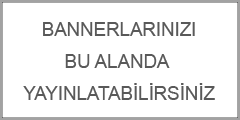
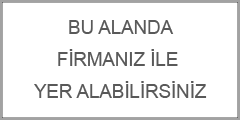
php sayfaları düzenlendi.

Changed region(s): [[0.0875, 0.675, 0.9042, 0.85], [0.175, 0.15, 0.8167, 0.3], [0.2333, 0.4, 0.7583, 0.575]]

diff --git a/cccotedivoireturkey/html/css/style.css b/cccotedivoireturkey/html/css/style.css
@@ -146,7 +146,7 @@ body { background: url("../img/bg_image.png") repeat-x top; font-family: ConduIT
 .middle .content .leftContent  span { font-size: 14px; }
 
 /* Right Menu */
-.middle .content .rightContent .rightMenu { width: 240px; background: #f2f2f2; float: left;}
+.middle .content .rightContent .rightMenu { width: 240px; background: #f2f2f2; float: left; font-family: Omnes, "Arial sans-serif";}
 .middle .content .rightContent .rightMenu .rightMenuHeader { padding: 10px; display: block; font-family:  Century, "Arial sans-serif"; color: #589ad2; font-size: 13px;  }
 .middle .content .rightContent .rightMenu img {  padding: 10px;   float: left;}
 .middle .content .rightContent .rightMenu .rightMenuItem { color: #b8b8b8; font-size: 14px; display: block;  padding: 9px; width: 185px;}
@@ -245,3 +245,6 @@ body { background: url("../img/bg_image.png") repeat-x top; font-family: ConduIT
 .active { color: #ff0 !important; }
 .sliderInHead { position: absolute; z-index: 998; width:100%; bottom: 0; color: white; height: 43px; background: #000000;  opacity: 0.7 }
 .siderInHeadText { position: absolute; z-index: 999; font-size:22px !important; bottom: 0; color: white;line-height: 42px; padding: 0 10px; }
+.vectorLayers { width: 220px; }
+.myVectors { float: left; margin: 5px 0; cursor: pointer; }
+.vectorLayers span { font-family:  Century, "Arial sans-serif";  float: left; margin: 5px 0;cursor: pointer;}

diff --git a/cccotedivoireturkey/html/css/reset.css b/cccotedivoireturkey/html/css/reset.css
@@ -42,4 +42,4 @@ table {
     border-spacing: 0;
 }
 
-a { cursor: pointer; text-decoration: none;}
+a { cursor: pointer; text-decoration: none; color: inherit;}

diff --git a/cccotedivoireturkey/html/press.php b/cccotedivoireturkey/html/press.php
@@ -1,0 +1,74 @@
+<?php include 'header.php'; ?>
+            <div class="leftContent">
+                <div class="vectorLayers">
+                    <img class="myVectors" src="img/tr_Flag.jpg" alt=""/>
+                    <span>Türk Bayrağı vectorel dosyasını indirmek için tıklayınız</span>
+                    <img class="myVectors" src="img/cd_Flag.jpg" alt=""/>
+                    <span>Fildişi Sahili Bayrağı vectorel dosyasını indirmek için tıklayınız</span>
+                    <img class="myVectors" src="img/foundation_Flag.jpg" alt=""/>
+                    <span>Odamızın logosunun vectorel dosyasını indirmek için tıklayınız</span>
+                </div>
+            </div>
+
+            <div class="rightContent">
+
+            </div>
+
+        </div>
+        <div class="advertising">
+            <img src="img/airdivoure.jpg" alt="">
+        </div>
+
+    </div>
+    <div class="footer">
+        <div class="pageUp">
+            <img src="img/up.png" alt="">
+            <span class="up">SAYFA BAŞI</span>
+        </div>
+
+        <div class="foot">
+            <div class="outColumn">
+                <span class="footerHeadLine">Biz</span>
+                <span>Etkinliklerimiz</span>
+                <span>Haberler</span>
+                <span>Yayınlar</span>
+            </div>
+            <div class="servicesColumn">
+                <span class="footerHeadLine">Hizmetlerimiz</span>
+                <span>Yayınlar</span>
+                <span>Hizmetlerimiz</span>
+                <span>Üyelik</span>
+            </div>
+            <div class="countryColumn">
+                <span class="footerHeadLine">Ülke Bilgileri</span>
+                <span>Galeri</span>
+                <span>Fildişi Sahilleri</span>
+                <span>République de Côte d'Ivoire</span>
+            </div>
+            <div class="connectionColumn">
+                <span class="footerHeadLine">İletişim</span>
+                <span>info@cccotedivoireturkey.com</span>
+                <span>+90 212 511 44 88</span>
+                <div>
+                    <img src="img/mapIco.png" alt="" class="mapIco">
+                    <p class="mapText">455 Larkspur Dr.
+                        San Jose, CA 92926</p>
+                </div>
+            </div>
+            <div class="socialColumn">
+                <div class="socClmContainer">
+                    <img src="img/mailIco.png" alt="">
+                    <img src="img/rssIco.png" alt="">
+                    <img src="img/facebookIco.png" alt="">
+                    <img src="img/twitterIco.png" alt="">
+                </div>
+            </div>
+        </div>
+
+    </div>
+
+
+</div>
+
+</body>
+</html>

diff --git a/cccotedivoireturkey/html/rightMenu.php b/cccotedivoireturkey/html/rightMenu.php
@@ -1,5 +1,4 @@
 <div class="rightMenu">
-    <span class="rightMenuHeader">Başlıklar</span>
     <img src="img/arrow.png" alt=""/><span class="rightMenuItem"><a href="#" ></a>Hizmetlerimiz</span>
     <img src="img/arrow.png" alt=""/><span class="rightMenuItem">Fırsatlar</span>
     <img src="img/arrow.png" alt=""/><span class="rightMenuItem">İhtiyaçlar</span>
@@ -7,8 +6,9 @@
     <img src="img/arrow.png" alt=""/><span class="rightMenuItem">Üyelere Özel hizm.</span>
     <img src="img/arrow.png" alt=""/><span class="rightMenuItem">Ticari Hizmetler</span>
     <img src="img/arrow.png" alt=""/><span class="rightMenuItem">Yatırım Alanları</span>
-    <img src="img/arrow.png" alt=""/><span class="rightMenuItem">Stratejik hedeflerimiz</span>
+    <img src="img/arrow.png" alt=""/><span class="rightMenuItem">Etkinlikler</span>
     <img src="img/arrow.png" alt=""/><span class="rightMenuItem">Değerlerimiz</span>
     <img src="img/arrow.png" alt=""/><span class="rightMenuItem">E-bülten</span>
-    <img src="img/arrow.png" alt=""/><span class="rightMenuItem">Yayınlarımız</span>
+    <img src="img/arrow.png" alt=""/><span class="rightMenuItem">Banner Reklam</span>
+    <img src="img/arrow.png" alt=""/><span class="rightMenuItem red"><a href="press.php" >Basın Sayfası</a></span>
 </div>

diff --git a/cccotedivoireturkey/html/index.php b/cccotedivoireturkey/html/index.php
@@ -92,6 +92,9 @@
     <div class="advertising">
         <img src="img/airdivoure.jpg" alt=""/>
     </div>
+    <div class="advertising">
+    <img src="img/airdivoure.jpg" alt=""/>
+</div>
 
 </div>
 <div class="footer">
@@ -109,15 +112,15 @@
         </div>
         <div class="servicesColumn">
             <span class="footerHeadLine">Hizmetlerimiz</span>
-            <span>Yayınlar</span>
-            <span>Hizmetlerimiz</span>
-            <span>Üyelik</span>
+            <span>Ofis Hizmetlerimiz</span>
+            <span>Ticari Hizmetlerimiz</span>
+            <span>Üyelere Özel Hizmetlerimiz</span>
         </div>
         <div class="countryColumn">
             <span class="footerHeadLine">Ülke Bilgileri</span>
-            <span>Galeri</span>
+            <span>Türkiye</span>
             <span>Fildişi Sahilleri</span>
-            <span>République de Côte d'Ivoire</span>
+            <span>Galeri</span>
         </div>
         <div class="connectionColumn">
             <span class="footerHeadLine">İletişim</span>

diff --git a/cccotedivoireturkey/html/connection.php b/cccotedivoireturkey/html/connection.php
@@ -10,6 +10,7 @@
                         <span>Şehir</span>
                         <span>Telefon</span>
                         <span>E-mail</span>
+                        <span>Konu</span>
                         <span>Mesaj</span>
                     </div>
                     <div class="formRight">

diff --git a/cccotedivoireturkey/html/executive.php b/cccotedivoireturkey/html/executive.php
@@ -2,7 +2,7 @@
 
             <!--LEFT CONTENT-->
             <div class="leftContent">
-                <p style="font-size: 23px !important;">Tasarım aşamasında</p>
+                <p style="font-size: 23px !important;">Yapım aşamasında</p>
             </div>
 
             <div class="rightContent">

diff --git a/cccotedivoireturkey/html/members.php b/cccotedivoireturkey/html/members.php
@@ -2,7 +2,7 @@
 
             <!--LEFT CONTENT-->
             <div class="leftContent">
-                <p style="font-size: 23px !important;">Tasarım aşamasında</p>
+                <p style="font-size: 23px !important;">Yapım aşamasında</p>
             </div>
 
             <div class="rightContent">
